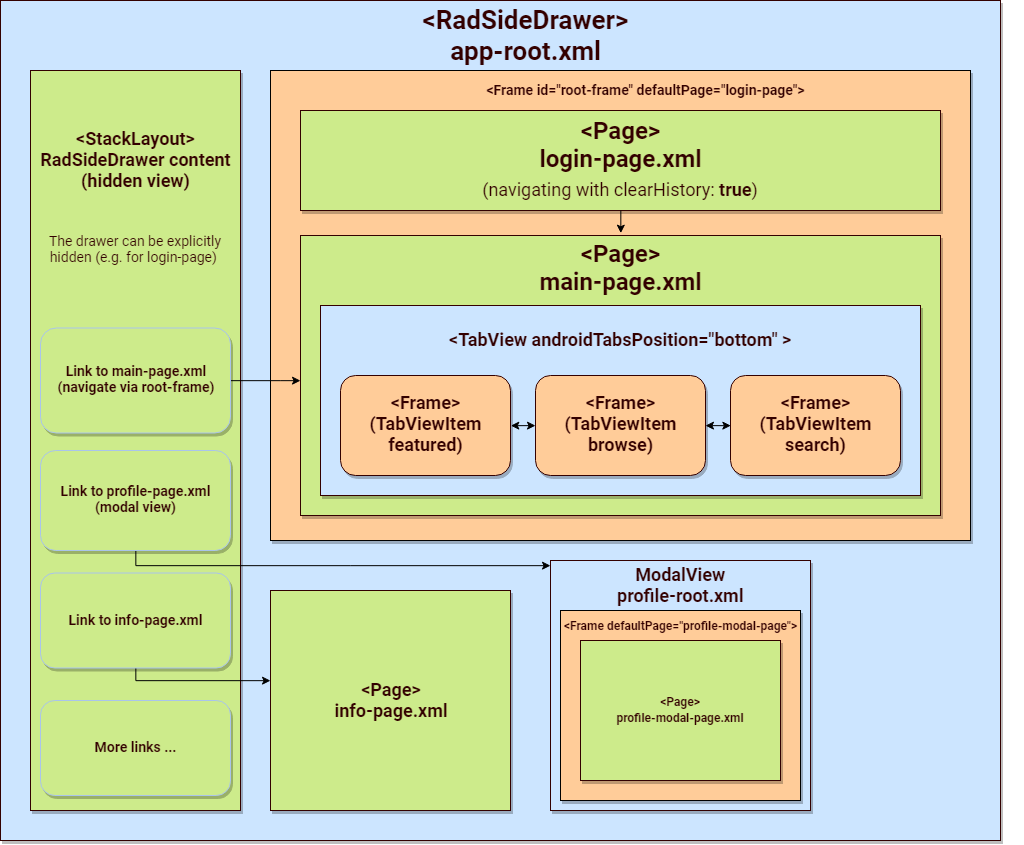
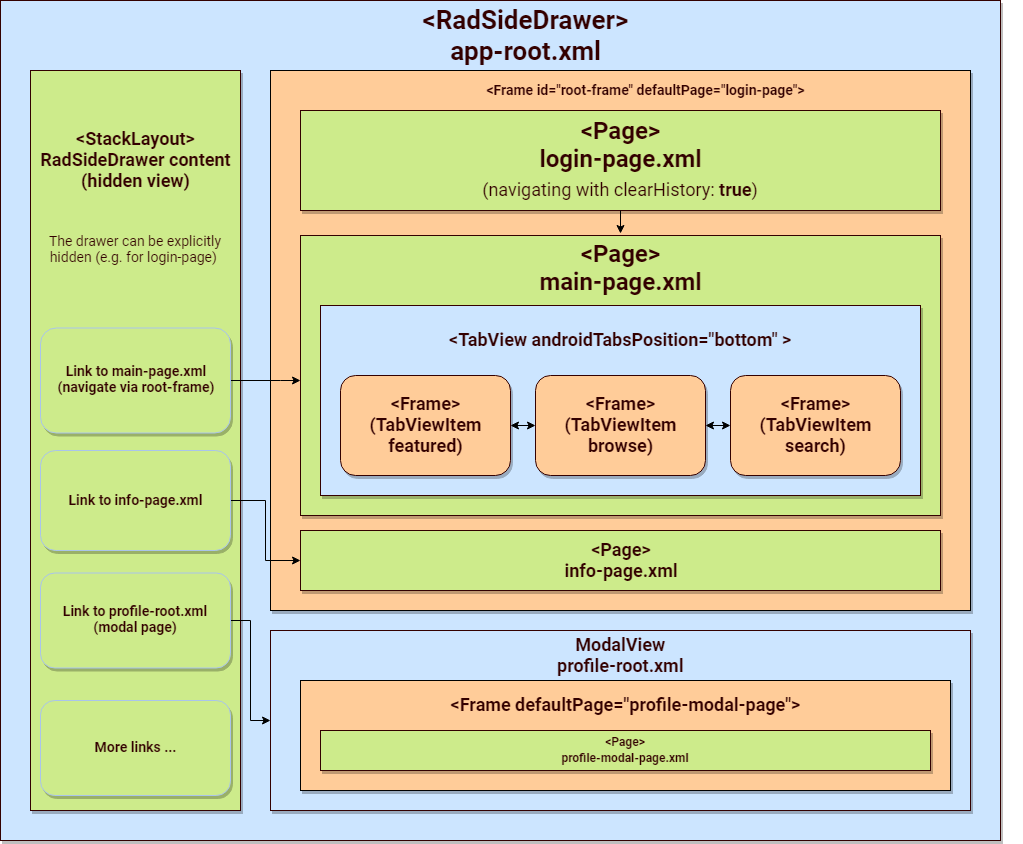
docs: improved combining nested scenario example

diff --git a/docs/core-concepts/nested-navigation.md b/docs/core-concepts/nested-navigation.md
@@ -230,8 +230,30 @@ TabView (lateral navigation)
 {% nativescript %}
 ![navigation-schema-backward](../img/navigation-extended/navigation-examples-page-7.png?raw=true)
 
-Make an example where lots of these are combined. For example, RadSidedrawer + Login leading to a Page with TabView and in one TabView there is another TabView. In another, there might be a Frame that has secondary Frame navigation.
+The following example demonstrates a scenario where we have combined several nested navigations (both lateral and forward navigations on different nested levels). For example, a `RadSidedrawer` + Login page leading to a page with a `TabView` and in one `TabView` there are inner forward navigations in each tab item. There is also a modal page with its own forward navigation.
 
+```
+RadSideDrawer (lateral navigation)
+    drawer content 
+        > Frame id="root-frame" (forward navigation)
+            >> Page (e.g. login-page)
+            >> Page (e.g. main-page) with TabView (lateral navigation)
+                 tabItem >>> Frame (featured)
+                            >>>> Page (featured-page)
+                 tabItem >>> Frame (browse)
+                            >>>> Page (browse-page)
+                 tabItem >>> Frame (search)
+                            >>>> Page (search-page)
+
+    drawer link 
+        > Modal page root (Frame - forward navigation)
+            >> Modal Page 
+
+    drawer link        
+        >> Page (e.g. info-page loaded via "root-frame")
+
+```
 [Playground Demo TypeScript](https://play.nativescript.org/?template=play-tsc&id=fyNqnr&v=6)
-RadSideDrawer > Frame 
+
+
 {% endnativescript %}
